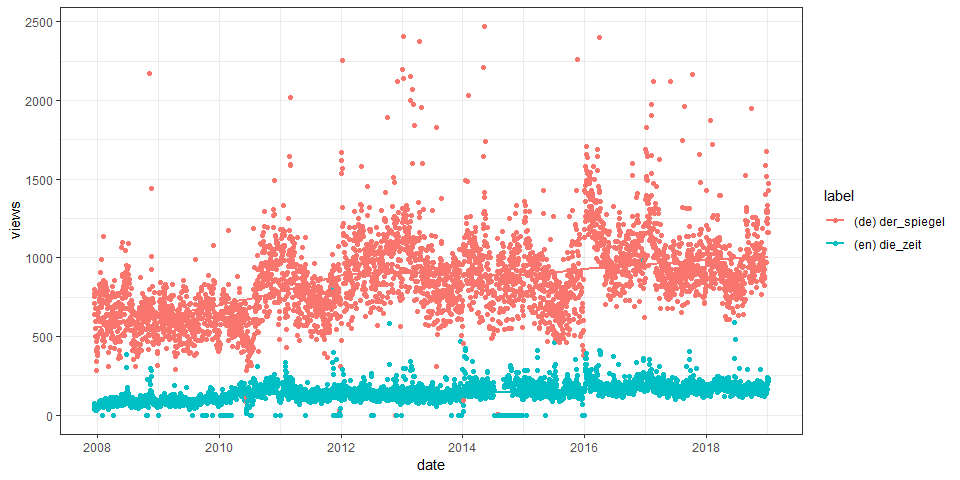
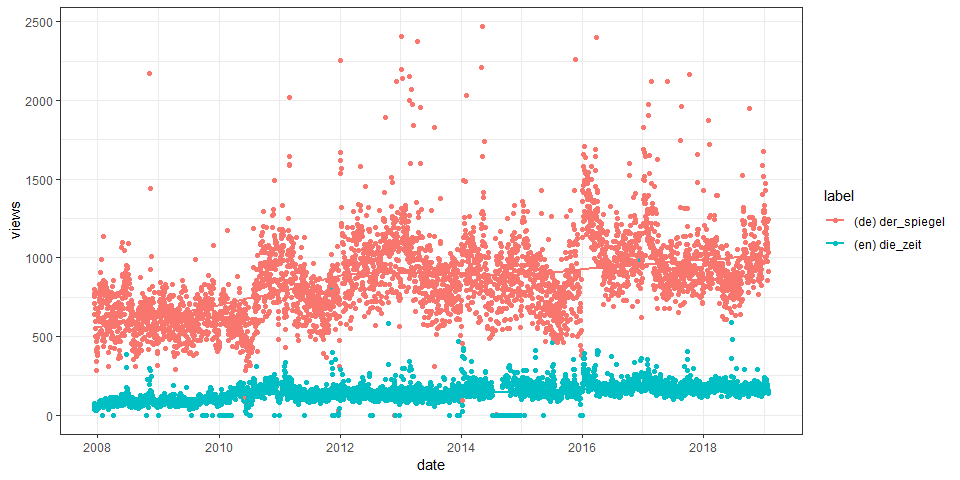
appveyor

diff --git a/README.md b/README.md
@@ -5,11 +5,11 @@
 
 **Status**
 
-<a href="https://travis-ci.org/petermeissner/wikipediatrend">
-<img src="https://api.travis-ci.org/petermeissner/wikipediatrend.svg?branch=master">
-<a/> <a href="https://codecov.io/gh/petermeissner/wikipediatrend">
-<img src="https://codecov.io/gh/petermeissner/wikipediatrend/branch/master/graph/badge.svg" alt="Codecov" />
-</a> <a href="https://cran.r-project.org/package=wikipediatrend">
+<a href="https://travis-ci.org/petermeissner/wikipediatrend"><img src="https://api.travis-ci.org/petermeissner/wikipediatrend.svg?branch=master"><a/>
+[![AppVeyor build
+status](https://ci.appveyor.com/api/projects/status/github/petermeissner/wikipediatrend?branch=master&svg=true)](https://ci.appveyor.com/project/petermeissner/wikipediatrend)
+<a href="https://codecov.io/gh/petermeissner/wikipediatrend"><img src="https://codecov.io/gh/petermeissner/wikipediatrend/branch/master/graph/badge.svg" alt="Codecov" /></a>
+<a href="https://cran.r-project.org/package=wikipediatrend">
 <img src="http://www.r-pkg.org/badges/version/wikipediatrend"> </a>
 <img src="http://cranlogs.r-pkg.org/badges/grand-total/wikipediatrend">
 <img src="http://cranlogs.r-pkg.org/badges/wikipediatrend">
@@ -18,7 +18,7 @@
 
 **Version**
 
-2.1.0 ( 2019-01-10 20:49:54 )
+2.1.0 ( 2019-01-28 19:42:18 )
 
 **Description**
 
@@ -71,13 +71,13 @@ library(wikipediatrend)
 ```
 
     ## 
-    ##   [wikipedaitrend]
+    ##   [wikipediatrend]
     ##     
     ##   Note:
     ##     
     ##     - Data before 2016-01-01 
     ##       * is provided by petermeissner.de and
-    ##       * was prepared in a project comissioned by the Hertie School of Governance (Simon Munzert)
+    ##       * was prepared in a project commissioned by the Hertie School of Governance (Simon Munzert)
     ##       * and supported by the Daimler and Benz Foundation.
     ##     
     ##     - Data from 2016-01-01 onwards 
@@ -109,13 +109,13 @@ trend_data
     ## 4    en       die_zeit    2007-12-11    35
     ## 3    de       der_spiegel 2007-12-11   710
     ## 5    de       der_spiegel 2007-12-12   770
-    ## 8094 en       die_zeit    2019-01-07   233
-    ## 8096 en       die_zeit    2019-01-08   215
-    ## 8095 de       der_spiegel 2019-01-08  1427
-    ## 8098 en       die_zeit    2019-01-09   212
-    ## 8097 de       der_spiegel 2019-01-09  1160
+    ## 8130 en       die_zeit    2019-01-25   158
+    ## 8132 en       die_zeit    2019-01-26   136
+    ## 8131 de       der_spiegel 2019-01-26  1031
+    ## 8134 en       die_zeit    2019-01-27   146
+    ## 8133 de       der_spiegel 2019-01-27  1240
     ## 
-    ## ... 8088 rows of data not shown
+    ## ... 8124 rows of data not shown
 
 *having another look …*
 
